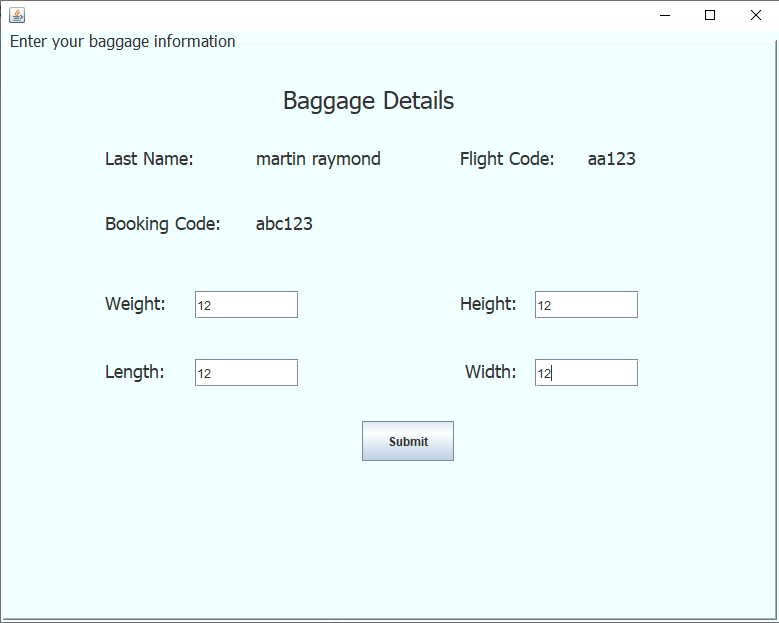
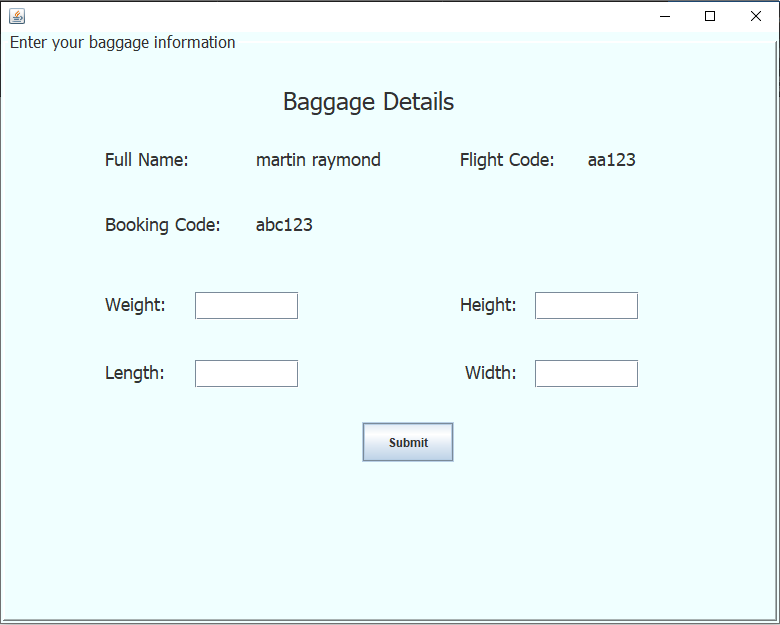
Text fix

diff --git a/src/com/hw/airport/GUI/BaggageInfoScreen.java b/src/com/hw/airport/GUI/BaggageInfoScreen.java
@@ -81,7 +81,7 @@ public class BaggageInfoScreen extends javax.swing.JFrame {
 		submitBtn.setText("Submit");
 
 		nameLbl.setFont(new java.awt.Font("Tahoma", 0, 18)); // NOI18N
-		nameLbl.setText("Last Name:");
+		nameLbl.setText("Full Name:");
 
 		bookingCdLbl.setFont(new java.awt.Font("Tahoma", 0, 18)); // NOI18N
 		bookingCdLbl.setText("Booking Code:");
@@ -234,8 +234,8 @@ public class BaggageInfoScreen extends javax.swing.JFrame {
 			try {
 				bookingChg = checkInSvc.calculateXtraChargeForPasngr(bookingChg);
 				// TODO: Display the results
-				JOptionPane.showMessageDialog(null, "Volume Charge: " + bookingChg.getVolumeCharge() + " "
-						+ "Weight Charge: " + bookingChg.getWeightCharge());
+				//JOptionPane.showMessageDialog(null, "Volume Charge: " + bookingChg.getVolumeCharge() + " "
+						//+ "Weight Charge: " + bookingChg.getWeightCharge());
 				if (bookingChg.getVolumeCharge() <= 0 && bookingChg.getWeightCharge() <= 0) {
 					boolean status = checkInSvc.confirmCheckin(booking);
 					if (status) {

diff --git a/src/com/hw/airport/GUI/PaymentWindow.java b/src/com/hw/airport/GUI/PaymentWindow.java
@@ -75,7 +75,7 @@ public class PaymentWindow extends javax.swing.JFrame {
 	        submitBtn.setText("Submit");
 
 	        nameLbl.setFont(new java.awt.Font("Tahoma", 0, 18)); 
-	        nameLbl.setText("Last Name:");
+	        nameLbl.setText("Full Name:");
 
 	        bookingCdLbl.setFont(new java.awt.Font("Tahoma", 0, 18)); 
 	        bookingCdLbl.setText("Booking Code:");

diff --git a/src/com/hw/airport/GUI/CheckInConfirmationScreen.java b/src/com/hw/airport/GUI/CheckInConfirmationScreen.java
@@ -52,7 +52,7 @@ public class CheckInConfirmationScreen extends javax.swing.JFrame {
 		submitBtn.setText("Submit");
 
 		nameLbl.setFont(new java.awt.Font("Tahoma", 0, 18));
-		nameLbl.setText("Last Name:");
+		nameLbl.setText("Full Name:");
 
 		bookingCdLbl.setFont(new java.awt.Font("Tahoma", 0, 18));
 		bookingCdLbl.setText("Booking Code:");
